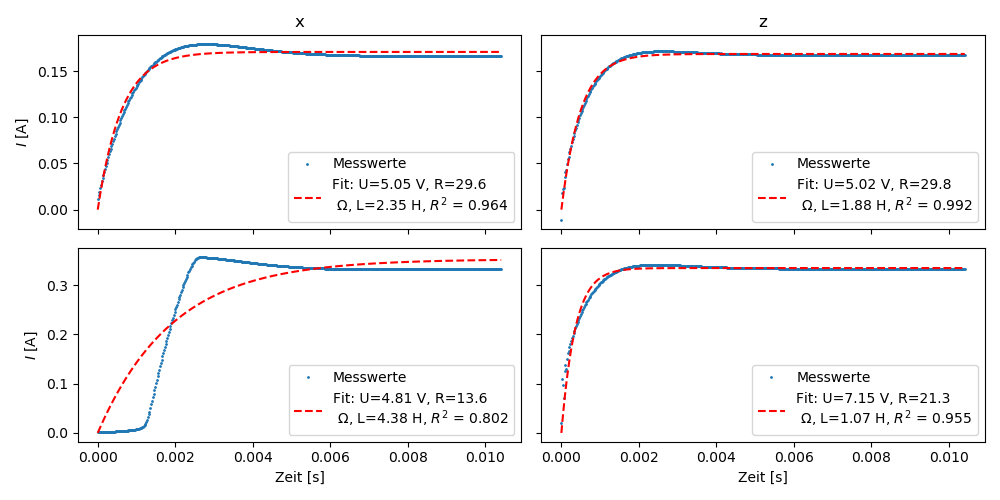
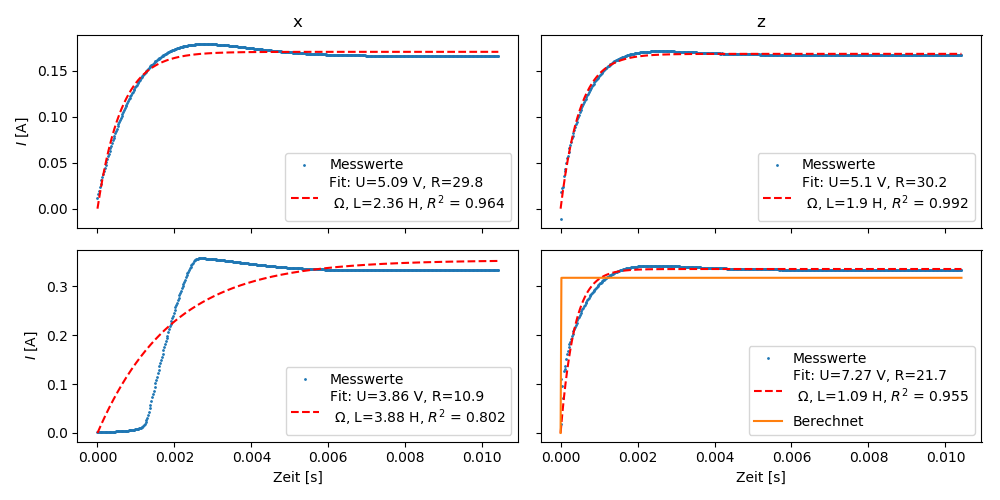
orangene Kurve in Strommessung

diff --git a/ba.tex b/ba.tex
@@ -1,4 +1,4 @@
-% Created 2019-10-18 Fr 14:18
+% Created 2019-10-18 Fr 14:40
 % Intended LaTeX compiler: pdflatex
 \documentclass[page,pdftex,12pt,a4paper,twoside,openright]{scrbook}
 \usepackage[utf8]{inputenc}
@@ -54,7 +54,7 @@
 
 
 \chapter{Einleitung \label{sec-einleitung}}
-\label{sec:org25e32c1}
+\label{sec:org06b1d02}
 Durch den allgemeine Anstieg der Weltbevölkerung, den demographischen Wandel und die steigende Lebenserwartung wird eine Zunahme von Krankheiten wie Krebs oder Diabetes erwartet \cite{bray_global_2018,zhou_worldwide_2016}. Um dieser Entwicklung entgegen zu wirken, werden kostengünstige, patientennahe Diagnoseprozesse für die Individualmedizin entwickelt. So können bereits früh Krankheitsanzeichen und -ursachen entdeckt und bekämpft werden.
 
 Neuartigen Analysesystemen wie \emph{Lab-on-a-Chip} (LOC) werden deswegen großes Potential für Biomedizin und Medizindiagnostik in der Zukunft zugesprochen. Durch Miniaturisierung der Chips ergeben sich viele Vorteile \cite{stone_microfluidics_2001,knight_honey_2002}.
@@ -62,11 +62,11 @@ Möglich sind unter anderem Biochips zur Analyse und Detektion von bestimmten Mo
 
 Das in der Arbeitsgruppe \textsc{Ehresmann} etablierte Transportkonzept von superparamagnetischen Partikeln (SPP) oberhalb magnetisch strukturierter \emph{Exchange-Bias} (EB) Dünnschichtsysteme kann hierbei ein wichtiger Bestandteil zukünftiger Analysesysteme werden. Die Grundidee ist es durch ein extern angelegtes Magnetfeld die magnetische Feldlandschaft (MFL) eines künstlichen Domänenmusters so zu transformieren, dass ein gerichteter Transport der SPP zwischen \emph{head-to-head} und \emph{tail-to-tail}-Domänenwänden möglich wird; dabei können diese SPP in verschiedenen Prozessschritten eines LOCs verwendet werden. Einerseits können Analyte, die an Partikel gebunden sind, in bestimmte Analysebereiche transportiert werden \cite{ehresmann_asymmetric_2011}, andererseits können aber auch Strömungsfelder durch den Partikeltransport erzeugt werden, welche die Analyten und Reagenzien durchmischen und so höhere biochemische Reaktionsraten bewirken \cite{holzinger_controlled_2012}. Ein weiteres Anwendungsgebiet ist die magnetophoretische Auftrennung der Partikel, um so verschiedene Partikelgrößen aufgrund unterschiedlicher magnetophoretischer Mobilitäten voneinander trennen zu können, damit zum Beispiel möglichst homogene Partikeldispersionen für Analysen erreicht werden können \cite{zhou_magnetic_2016}. Für jede dieser Anwendungen werden verschiedene Formen eines externen Magnetfeldes benötigt. Bisher wurden für den Partikeltransport trapezförmige Magnetfeldsequenzen mit konstanten Änderungsraten verwendet. In dieser Arbeit soll der Einfluss der Änderungsrate auf die Transportgeschwindigkeit und Trajektorie der Partikel genauer betrachtet werden, um Optimierungen bezüglich des Partikeltransports für das jeweilige Anwendungsgebiet möglich zu machen.
 \chapter{Theoretische Grundlagen \label{sec-grundlagen}}
-\label{sec:org05167f0}
+\label{sec:org6a9646e}
 In diesem Kapitel soll das theoretische Hintergrundwissen, welches zum Verständnis dieser Arbeit benötigt wird, vermittelt werden. Dazu wird zunächst der Elektromagnetismus eingeführt. Anschließend wird die Verbindung zum Magnetismus in Materie hergestellt. Dann werden die in dieser Arbeit verwendeten \emph{Exchange Bias Systeme} eingeführt und im nächsten Teil wird schließlich der Transport von superparamagnetischen Partikeln über eben jene \emph{Exchange Bias Systeme} beschrieben, wobei die auf sie wirkenden Kräfte genauer betrachtet werden sollen.
 
 \section{Elektromagnetismus \label{sec-elektromagnetismus}}
-\label{sec:orga84997a}
+\label{sec:org0f9cbcd}
 Allgemein gilt, dass bewegte Ladungsträger (Ströme) ein Magnetfeld erzeugen. Fließt zum Beispiel ein Strom \(I\) durch einen langen geraden Draht, erzeugt dies ein kreisförmiges Magnetfeld. Entlang der Stromrichtung ergibt sich eine Rechtsschraube für das Magnetfeld B. Eine Spule besteht aus mehreren Windungen stromdurchflossenen Drahtes und erzeugt so durch Überlagerung ein Magnetfeld ähnlich eines Stabmagneten mit Nord- und Südpol. Die Magnetische Flussdichte \(B\) im Vakuum hängt dabei von Stromstärke \(I\) und Windungsdichte \(n = \frac{N}{L}\) (Windungen pro Länge) ab. Hierbei ist \(\mu_\mathrm{0}\) die magnetische Feldkonstante \cite{demtroder_experimentalphysik_2017}:
 
 \begin{equation}
@@ -75,7 +75,7 @@ B = \mu_{\mathrm{0}} \cdot n \cdot I .
 \end{equation}
 
 \subsection{Helmholtzspulen}
-\label{sec:org12409d3}
+\label{sec:orgfa94d06}
 Für den Partikeltransport wird ein äußeres magnetisches Feld mit Hilfe von Helmholtzspulen erzeugt. Eine Helmholtzspule besteht aus zwei parallelen Ringspulen in Reihe. Diese erzeugen ein homogenes Magnetfeld in ihrem Inneren, wenn die Helmholtz-Bedingung erfüllt ist, d.h. Radius und Abstand der Teilspulen gleich sind. Die Flussdichte dieses Magnetfeldes hängt in Näherung von der Stromstärke \(I\), der Windungszahl pro Spule \(N\) und dem Radius einer einzelnen Spule \(r\) ab \cite{raith_elektromagnetismus_2006}: 
 
 \begin{equation}
@@ -84,7 +84,7 @@ B = \left(\frac{4}{5}\right)^{\frac{3}{2}} \cdot \mu_{\mathrm{0}} \cdot \frac{N 
 \end{equation}
 
 \section{Spulen als elektrische Bauteile \label{sec-spulen}}
-\label{sec:org533111d}
+\label{sec:org23dde6e}
 Beim Anlegen einer Spannung an eine Spule, wird innerhalb dieser eine Gegenspannung induziert. Hierbei ist die induzierte Spannung
 
 \begin{equation}
@@ -137,7 +137,7 @@ Der Abschaltvorgang ist in Abbildung \ref{fig-abschalten} abgebildet.
 \end{figure}
 
 \section{Magnetismus in Materie \label{sec-magnetismus}}
-\label{sec:org9c95896}
+\label{sec:org0d2a8ca}
 Wie bereits in Kapitel \ref{sec-elektromagnetismus} erläutert, erzeugen bewegte Ladungen Magnetfelder. Eine solche bewegte Ladung ist auch das Elektron, das in einer vereinfachten Vorstellung um den Atomkern kreist. Folglich besitzen Atome ein magnetisches Moment \(\mu\), welches abhängig ist von der umkreisten Fläche \(A\) und dem Kreisstrom des Elektrons \(I\) \cite{kassing_bergmann_2005}:
 
 \begin{equation}
@@ -178,7 +178,7 @@ Festkörper können in Folge der mikroskopischen Ursachen bezüglich ihres Magne
 Im Folgenden soll näher auf diese Klassifizierungen eingegangen werden.
 
 \subsection{Dia- und Paramagnetismus \label{sec-dia-und-para}}
-\label{sec:org73c0d82}
+\label{sec:org295e50b}
 Diamagnetismus ist ein magnetischer Effekt in jeglicher Materie, welcher durch induzierte magnetische Momente auftritt. In einem externen Magnetfeld wird im Atom ein magnetisches Moment induziert, welches dem induzierenden Magnetfeld entgegen wirkt (Lenzsche Regel). Ein Festkörper wird als diamagnetisch bezeichnet, wenn ohne äußeres magnetisches Feld keine magnetischen Momente vorliegen. Vor allem abgeschlossene äußere Elektronenschalen tragen zum diamagnetischen Effekt eines Atoms bei. Die Spin- und Bahnmomente der gepaarten Elektronen heben sich in Summe auf. Diamagnetische Materialien haben eine negative Suszeptibilität und werden aus dem externen Magnetfeld heraus gedrängt \cite{gross_festkorperphysik_2012}.
 
 \begin{equation}
@@ -201,7 +201,7 @@ Legt man ein äußeres Magnetfeld an, richten sich die magnetischen Momente nach
 \end{equation}
 
 \subsection{Ferromagnetismus \label{sec-ferro}}
-\label{sec:org5c281a6}
+\label{sec:org79f9ab5}
 Beeinflussen sich die einzelnen magnetischen Momente gegenseitig, sind sie also gekoppelt, kann das System einen magnetisch geordneten Zustand einnehmen. Dieser geordnete Zustand unterliegt jedoch einer Temperaturabhängigkeit. Eine Ursache für das Vorliegen von kollektivem Magnetismus ist die quantenmechanische \textbf{Austausch-Wechselwirkung} \cite{kassing_bergmann_2005}.
 
 Die Suszeptibilität ferromagnetischer Materialien ist um bis zu mehrere Größenordnungen größer als bei paramagnetischen Materialien \cite{demtroder_experimentalphysik_2017}.
@@ -242,16 +242,16 @@ Beim Ausrichten der magnetischen Dipole in einem ferromagnetischen Stoff wird En
 Der Festkörper kann seine ferromagnetischen Eigenschaften verlieren, wenn er über eine bestimmte, für das Material charakteristische, Temperatur \(T_\mathrm{C}\), die \textbf{Curie-Temperatur} erhitzt wird. Die Wärmebewegung zerstört dann die magnetische Ausrichtung der Dipole und der Stoff zeigt nur noch paramagnetisches Verhalten \cite{demtroder_experimentalphysik_2017}.
 
 \subsection{Antiferromagnetismus \label{sec-antiferro}}
-\label{sec:org25bb166}
+\label{sec:orgebbc7b4}
 In einem Antiferromagneten liegen zwei ineinander gestellte Untergitter im Kristallgitter vor. Die magnetischen Momente jener Untergitter zeigen jeweils in entgegengesetzte Richtungen und haben den gleichen Betrag. Somit heben sie sich insgesamt auf und es ist keine makroskopische Magnetisierung sichtbar. Oberhalb der \textbf{Néel-Temperatur} \(T_\mathrm{N}\), dem Analogon zur Curie-Temperatur, geht der Festkörper in den paramagnetischen Zustand über \cite{demtroder_experimentalphysik_2017}. 
 
 \subsection{Superparamagnetismus}
-\label{sec:org609e468}
+\label{sec:org836afd1}
 Ist das Volumen eines ferromagnetischen Festkörpers so gering, dass er nur aus einer einzelnen Domäne besteht, spricht man von Superparamagnetismus. Die Suszeptibilität solcher Superparamagneten ist größer als die Suszeptibilität von Paramagneten, jedoch verhalten sie sich ohne äußeres Magnetfeld ähnlich, da die Magnetisierung in solchen einzelnen Domänen nicht thermisch stabil ist und sich beliebig ausrichten kann \cite{gross_festkorperphysik_2012}.
 Jedoch ist die Zeitskala des Experiments, und ob in dieser thermische Aktivierungs- und Relaxationsprozesse statt finden können, wichtig, um Aussagen über das magnetische Verhalten eines Partikels machen zu können. Bei ausreichend großen Zeitskalen wird über die durch thermische Energie unterschiedlichen magnetischen Momente gemittelt und man erhält insgesamt keine Magnetisierung. Wird jedoch sehr kurz gemessen, kann eine Richtung der Magnetisierung für diesen kurzen Zeitausschnitt bestimmt werden \cite{leslie-pelecky_magnetic_1996}.
 
 \section{Exchange Bias Effekt \label{sec-EB}}
-\label{sec:org635ad9a}
+\label{sec:orga19e01e}
 Der \emph{Exchange Bias} (EB) Effekt  wurde 1956 von \textsc{Meiklejohn} und \textsc{Bean} an oxidierten \ce{Co}-Partikeln entdeckt. Diese Partikel bestehen im Kern aus Cobalt, einem Ferromagneten, und besitzen eine äußere dünne \ce{CoO}-Schicht, welche antiferromagnetisch ist. Die Autoren entdeckten eine Verschiebung der Hysteresekurve um das sogenannte Austauschverschiebungsfeld \(H_\mathrm{EB}\). Diese Beobachtung kann durch den Austauschverschiebungseffekt (engl. \emph{exchange bias}) erklärt werden. Dieser tritt an der Grenzfläche zwischen antiferromagnetischer (AF) und ferromagnetischer (F) Schicht auf, wenn die Partikel innerhalb eines externen Magnetfeldes unter die Néel-Temperatur der antiferromagnetischen Schicht gekühlt wurden. \cite{meiklejohn_new_1957}.
 
 
@@ -285,7 +285,7 @@ Schematische Darstellung der ferromagnetischen Hysteresekurve eines EB-Systems i
 Durch Helium-Ionenbeschuss kann der EB-Effekt eines Schichtsystems verändert werden. So kann zum Beispiel die Richtung des Austauschverschiebungsfeldes lokal umgekehrt werden \cite{mougin_local_2001}. Hierzu kann eine Schattenmaske mittels Lithographie auf die Probe gebracht werden, um anschließend lokal das Eindringen von Ionen zu verhindern. Dies ermöglicht die magnetische Strukturierung von EB-Systemen, zum Beispiel in einer \emph{in-plane} Anisotropie, welche zu \emph{head-to-head} und \emph{tail-to-tail}-Domänenwänden in einer Streifenstruktur führt, womit wiederum Transport von superparamagnetischen Partikeln realisiert werden kann \cite{holzinger_directed_2015}.
 
 \section{Partikeltransport \label{sec-partikeltransport}}
-\label{sec:orgdc3a25a}
+\label{sec:orgef27d5b}
 Superparamagnetische Partikel (SPP) lassen sich durch Verwendung von den zuvor beschriebenen streifenstrukturierten (hh und tt) EB-Systemen in kontrollierten Abständen zum Substrat und in geordneter Reihenform transportieren. Dabei setzt sich das effektive Magnetfeld, das die Partikel erfahren, aus der Magnetfeldlandschaft des Exchange-Bias Systems und dem externen Magnetfeld zusammen \cite{holzinger_directed_2015}:
 
 \begin{equation}
@@ -342,10 +342,10 @@ Schematische Darstellung der wirkenden Kräfte auf ein superparamagnetisches Par
 \end{figure}
 
 \chapter{Experimentelle Methoden \label{sec-methoden}}
-\label{sec:org0e9374d}
+\label{sec:org31aa84c}
 
 \section{Experimenteller Aufbau \label{sec-aufbau}}
-\label{sec:org4690204}
+\label{sec:org7f7d8b2}
 
 Um den Transport von superparamagnetischen Partikeln über das Substrat zu realisieren und zu beobachten, wurde der Versuchsaufbau, der in Abbildung \ref{img-aufbau} zu sehen ist, verwendet.
 
@@ -375,7 +375,7 @@ z & \num{330} & \num{0,030} & \num{11,5} & \num{70} & \num{5,6}\\
 Bei den Versuchen in dieser Arbeit wurden nur zwei der drei Helmholtzspulen verwendet. Dabei handelte es sich um die Spulen für die x- und z-Richtung. Die Partikel wurden in einer mikrofluidischen Zelle auf den Proben platziert, um dann untersucht werden zu können. Hierfür wird Parafilm zuerst in Größe der Probe zurecht geschnitten, und dann ein Rechteck im Inneren des Parafilms ausgeschnitten. So entsteht eine Aussparung in der Mitte, in die circa \SI{10}{\micro\litre} Partikelsuspension gegeben werden. Anschließend wird die Probe auf dem Probentisch platziert, die LED eingeschaltet, und die Kamera mittels Livebild auf die Partikel fokussiert.
 
 \section{Programm zur Erstellung von Magnetfeldsequenzen \label{sec-py}}
-\label{sec:org66c6f60}
+\label{sec:orge71bac0}
 Um die in dieser Arbeit benötigten externen Magnetfelder zu erzeugen, wurde ein neues Programm in Python entwickelt, mit dessen Hilfe verschiedene Wellenformen als Magnetfeld ausgegeben werden können. Hierbei stand ein modularer Ansatz im Vordergrund, weshalb durch einfache Änderungen am Programmcode andere Geräte im Aufbau verwendet werden können. So kann zum Beispiel ein anderes Netzteil verwendet werden, um dann auch drei Helmholtzspulen für Magnetfelder in drei Dimensionen anzusteuern. Ziel war es sowohl sinus- und rechteckförmige Magnetfelder, als auch die für diese Arbeit benötigten trapezförmigen Magnetfelder erzeugen zu können. Dabei ist es möglich jeden Parameter der Wellenform zu ändern, und die Magnetfeldsequenzen als Plot dargestellt zu sehen. Abbildung \ref{fig-prog} zeigt einen Screenshot der graphischen Benutzeroberfläche des Programms.
 
 Mit der in dieser Arbeit entwickelten ersten Version des Programms ist es bisher nur möglich, die Spannungsausgabe des DAQ-Gerätes an das jeweilige verwendete Netzteil zu steuern und anzuzeigen. In Zukunft soll es jedoch möglich sein bereits das entstehende Magnetfeld im Programm auszuwählen und angezeigt zu bekommen. Hierzu wurden zunächst die verwendeten Spulen und das Netzteil charakterisiert (siehe Kapitel \ref{sec-stromundmagnet}).
@@ -388,7 +388,7 @@ Screenshot des entwickelen Programms zur Erstellung von beliebigen Magnetfeldseq
 \end{figure}
 
 \section{Zeitabhängige Messung von Strom und magnetischer Flussdichte \label{sec-stromundmagnet}}
-\label{sec:orgcf01078}
+\label{sec:org7f9276a}
 Um das Verhalten der im Experiment verwendeten Helmholtzspulen nachvollziehen zu können und um die gegebenen technischen Daten und Modelle zu Überprüfen, wurden Messungen des Magnetfeldes und des Stromes an eben jenen Spulen durchgeführt.
 
 Hierfür wurde einerseits der zeitliche Verlauf der Stromstärke in der Spule gemessen, um Induktivität und ohmschen Widerstand zu überprüfen. Es wurde ein Keramikwiderstand in Reihe mit der zu messenden Helmholtzspule angebracht. Über diesem Messwiderstand \(R\) wurde nun die Spannung \(U\) gemessen, indem eine NI USB-6002 Box (im folgenden \emph{DAQ} für \emph{Data Acquisition}) parallel dazu angeschlossen wurde. Dieses DAQ-Gerät besitzt eine maximale Samplerate von \SI{50000}{\per\s} und eine Bittiefe von 16-bit am \emph{Analog Input} (AI). Damit ist dieses Gerät hinreichend geeignet für Erfassung der Messdaten. Mithilfe des Ohmschen Gesetzes lässt sich so der Strom \(I\), der durch den bekannten Messwiderstand \(R\) fließt, berechnen. Da Spule und Messwiderstand in Reihe geschaltet sind, fließt durch beide die selbe Stromstärke.
@@ -405,7 +405,7 @@ Um den zeitlichen Verlauf der magnetischen Flussdichte zu messen, wurde der Mess
 Die Aufzeichnung der Daten des DAQ-Gerätes erfolgte für beide Messungen mittels eines selbst geschriebenen Python-Scriptes (siehe Anhang \ref{anh-messung}).
 
 \chapter{Ergebnisse und Diskussion \label{sec-ergebnisse}}
-\label{sec:org0491e66}
+\label{sec:orgc4aa908}
 Allgemein kann die Auswertung in zwei Teile unterteilt werden.
 Zu Beginn der Auswertung wird in Kapitel \ref{sec-b_helmholtz} auf Messungen von Stromstärke und magnetischer Flussdichte an den im Experiment verwendeten Helmholtzspulen eingegangen. Diese Messungen werden zum einen benötigt um das Programm zur Erstellung von Magnetfeldsequenzen zukünftig sinnvoll weiter entwickeln zu können. Weiterhin ist die Kentniss über den realen zeitlichen Verlauf der angelegten Magnetfeldsequenzen wichtig, um die Simulationen und Vorhersagen aus dem theoretischen Modell zum Partikeltransport einordnen, diskutieren und möglicherweise optimieren zu können. Es wurden sowohl statische Messungen der Amplitude der magnetischen Flussdichte als auch der zeitliche Verlauf der magnetischen Flussdichte in Abhängigkeit der Stromstärke durchgeführt.
 
@@ -419,7 +419,7 @@ Zusammensetzung der verwendeten Schichtsysteme. Die obere Siliziumschicht wurde 
 \end{figure}
 
 \section{Stromstärke und magnetische Flussdichte der Helmholtzspulen \label{sec-b_helmholtz}}
-\label{sec:orgeaa2329}
+\label{sec:org9960c18}
 Um die verwendeten Helmholtzspulen näher charakterisieren zu können, wurde zunächst der Zusammenhang zwischen der am Netzteil angelegten Spannung und der die Spulen durchfließenden Stromstärke sowie der daraus resultierenden magnetischen Flussdichte bestimmt.
 
 Zuerst wurde der Zusammenhang zwischen den Amplituden der Stromstärke \(I\) und magnetischen Flussdichte \(B\) gemessen. Dabei wurde die Stromstärke an einem in Reihe geschalteten Multimeter abgelesen, die magnetischen Flussdichte an einem Teslameter der Firma \emph{Projekt Elektronik GmbH}, dessen Messkopf sich in der Probenhalterung der Helmholtzspulen zur Messung des Magnetfeldes in z-Richtung befand. Die Messwerte sind in Tabelle \ref{tab-B} im Anhang dargestellt. Der Zusammenhang von Stromstärke und magnetischer Flussdichte sollte gemäß Gleichung \ref{eq-spule} linear sein, weshalb die Messwerte in Abbildung \ref{fig-magnetfeldstrom} durch eine lineare Regression angenähert wurden.
@@ -486,10 +486,12 @@ Anschließend wurden die Messwerte durch eine Fitfunktion basierend auf Gleichun
 \centering
 \includegraphics[width=\textwidth]{img/strom_fit.png}
 \caption{\label{fig-stromfit}
-Einschaltzeitpunkt der gemittelten Periode der Stromstärke. \mbox{Fitfunktion (rot) und -parameter} zu Gleichung \ref{eq-strom-spule} an die gemessenen Stromstärken (blau).}
+Einschaltzeitpunkt der gemittelten Periode der Stromstärke. \mbox{Fitfunktion (rot) und -parameter} zu Gleichung \ref{eq-strom-spule} an die gemessenen Stromstärken (blau). Zum Vergleich wurde im unteren rechten Graphen der berechnete Verlauf der Stromstärke mit gemessenen Werten für Widerstand \(R = \SI{11.5}{\ohm}\) und Induktivität \(L = \SI{0.0056}{\henry}\) in orange dargestellt.}
 \end{figure}
 
-In den Graphen ist zu erkennen, dass der Kurvenverlauf der Stromstärke beim Einschalten prinzipiell dem theoretisch vorhergesagten Einschaltverhalten aus Gleichung \ref{eq-strom-spule} entspricht. Dennoch sind keine ausreichend genauen Parameter für die Fitfunktion gefunden worden. Vor allem zu Beginn der Messung weicht das reale Einschaltverhalten vom erwarteten Einschaltverhalten ab, da das Netzteil aufgrund der Stromregelung keine konstante Spannung ab Zeitpunkt des Einschaltens ausgibt, sondern diese regelt, um einen konstanten Strom zu erzielen. Hinzu kommt, dass Gleichung \ref{eq-strom-spule} nur einen konstanten ohmschen Widerstand voraus setzt. Jedoch werden durch die hohe Änderungsrate des Stromes große Gegenströme induziert, welche als Blindwiderstand wirken. Deswegen kann Gleichung \ref{eq-strom-spule} nur näherungsweise hinzugezogen werden, und es ist nicht möglich die reellen Vorgänge damit zu beschreiben. Durch diese beiden Effekte müssten komplexere Modelle hinzugezogen werden, um den genauen Verlauf der Stromstärke vorhersagen zu können. Des Weiteren ist unbekannt wie das Netzteil aufgebaut ist, welche elektrischen Bauteile darin verwendet werden, und so eventuell zu der Induktivität des Aufbaus beitragen. Das Netzteil allein gibt bereits ohne zusätzliche Spulen keine sofortige maximale Spannung aus. Dies wurde überprüft, indem das Netzteil nur an einen \(\SI{12.5}{\ohm}\) Widerstand angeschlossen wurde und die darüber abfallende Spannung ohne Helmholtzspule gemessen wurde. Der Einschaltvorgang dieser Messung ist dargestellt in Abbildung \ref{fig-12ohm}. Wegen des ohmschen Gesetzes ist die Stromstärke proportional zum am Widerstand gemessenen Spannungsabfall und zeigt die selbe Form. Außerdem wird deutlich, dass die Auflösung des DAQ-Gerätes anscheinend zu gering ist, um die schnellen Änderungen während des Einschaltens genau darstellen zu können.
+In den Graphen ist zu erkennen, dass der Kurvenverlauf der Stromstärke beim Einschalten prinzipiell dem theoretisch vorhergesagten Einschaltverhalten aus Gleichung \ref{eq-strom-spule} entspricht. Dennoch sind keine ausreichend genauen Parameter für die Fitfunktion gefunden worden. Vor allem zu Beginn der Messung weicht das reale Einschaltverhalten vom erwarteten Einschaltverhalten ab, da das Netzteil aufgrund der Stromregelung keine konstante Spannung ab Zeitpunkt des Einschaltens ausgibt, sondern diese regelt, um einen konstanten Strom zu erzielen. Hinzu kommt, dass Gleichung \ref{eq-strom-spule} nur einen konstanten ohmschen Widerstand voraus setzt. Jedoch werden durch die hohe Änderungsrate des Stromes große Gegenströme induziert, welche als Blindwiderstand wirken. Deswegen kann Gleichung \ref{eq-strom-spule} nur näherungsweise hinzugezogen werden, und es ist nicht möglich die reellen Vorgänge damit zu beschreiben. Durch diese beiden Effekte müssten komplexere Modelle hinzugezogen werden, um den genauen Verlauf der Stromstärke vorhersagen zu können. 
+Des Weiteren ist unbekannt wie das Netzteil aufgebaut ist, welche elektrischen Bauteile darin verwendet werden, und so eventuell zu der Induktivität des Aufbaus beitragen. Das Netzteil allein gibt bereits ohne zusätzliche Spulen keine sofortige maximale Spannung aus. Dies wurde überprüft, indem das Netzteil nur an einen \(\SI{12.5}{\ohm}\) Widerstand angeschlossen wurde und die darüber abfallende Spannung ohne Helmholtzspule gemessen wurde. Der Einschaltvorgang dieser Messung ist dargestellt in Abbildung \ref{fig-12ohm}. Wegen des ohmschen Gesetzes ist die Stromstärke proportional zum am Widerstand gemessenen Spannungsabfall und zeigt die selbe Form. Außerdem wird deutlich, dass die Auflösung des DAQ-Gerätes anscheinend zu gering ist, um die schnellen Änderungen während des Einschaltens genau darstellen zu können.
+Dies wird auch verdeutlicht durch die exemplarisch gezeigte orangene Kurve in Abbildung \ref{fig-stromfit}. Diese beschreibt das Einschaltverhalten mithilfe des im Voraus gemessenen Widerstands und Induktivität. Dies ist somit die eigentlich während der Messung erwartete Kurve, wenn das Netzteil einen idealen Stromverlauf ausgeben könnte und Gleichung \ref{eq-strom-spule} diesen korrekt abbilden könnte.
 
 \begin{figure}[h]
 \centering
@@ -531,7 +533,7 @@ Zeitlicher Verlauf der magnetischen Flussdichte der z-Spule der gemittelten Peri
 \end{figure}
 
 \section{Partikeltransport \label{sec-partikelgeschwindigkeiten}}
-\label{sec:orgdaa99f3}
+\label{sec:orgf40dff9}
 Um aus den aufgenommen Videos aus dem Partikeltransportexperiment die Trajektorien und Partikelgeschwindigkeiten zu erhalten, wird das Programm \emph{VideoSpotTracker} verwendet. Hierzu wurden möglichst alle sich bewegenden Partikel als \emph{"`dark spot"'} mit der Größe 3 ausgewählt, und dann mittels \emph{"`follow jumps"'} die x- und z-Positionen der einzelnen Partikel in Pixel verfolgt und in einer csv-Datei aufgezeichnet (siehe Abbildung \ref{fig-videospottracker}). Da die Größe eines Pixels (\SI{278}{\nano\meter}) sowie die Framerate (1000 FPS) und somit die Zeit bekannt sind, lässt sich so die Durchschnittsgeschwindigkeit der Partikel berechnen. Bewegungen in y-Richtung sind unter anderem durch ein nicht genau orthogonal zur Streifenstruktur anliegendes Magnetfeld der x-Spule zu erklären.
 
 \begin{figure}[h]
@@ -590,15 +592,15 @@ Betrag der Magnetfeldvektoren. Die angelegten Magnetfeldsequenzen sind in grün 
 \end{figure}
 
 \chapter{Zusammenfassung und Ausblick \label{sec-zusammenfassung}}
-\label{sec:org6a77a06}
+\label{sec:org9d2b45b}
 Ziel dieser Arbeit war es, den Einfluss der Änderungsrate der externen Magnetfelder auf den Partikeltransport zu untersuchen. Um dies zu erreichen, waren zuvor einige zusätzliche Untersuchungen von Nöten. Zunächst wurden die im Experiment verwendeten Helmholtzspulen charakterisiert, und überprüft ob das real erzeugte Magnetfeld der Spulen mittels Gleichungen vorhergesagt werden kann. Es konnte gezeigt werden, dass zwar die endgültige magnetische Flussdichte korrekt berechnet werden kann, der Einschaltvorgang der Spulen kann jedoch aufgrund von komplexeren Vorgängen und verwendeten Geräten nicht mathematisch beschrieben werden. Dies wirkt sich auch auf die Simulationen aus, welche durchgeführt werden, um die Partikelgeschwindigkeiten und -trajektorien bereits im Voraus zu berechnen. Diese Simulationen verwenden idealisierte Magnetfeldsequenzen und EB-Systeme. Trotzdem ist es durchaus möglich die Trajektorien der Partikel zu berechnen, und so schon im Voraus die Notwendigkeit der Herstellung bestimmter EB-Schichtsysteme zu prüfen.
 
 Auch wenn es nur ein kleiner Teil dieser Arbeit war, wird durch die Entwicklung des neuen Programms zur Erstellung der Magnetfeldsequenzen in Zukunft einfacher sein, verschiedene Magnetfeldsequenzen und deren Auswirkung auf den Partikeltransport zu Untersuchen. Es ist zum Beispiel möglich verschiedene Frequenzmodulationen zu erstellen, und deren Auswirkungen zu untersuchen.
 Ein weiterer Vorteil ist, dass es voraussichtlich möglich ist, die Aufnahme der Kamera mit eben jenem Programm zur Ausgabe der Magnetfeldsequenzen bereits zu starten. Somit sind Video und Magnetfeldsequenz bereits synchronisiert, und mit einem Mausklick können Magnetfeldsequenzen und Aufnahme gleichzeitig gestartet werden. Hier gab es jedoch aufgrund von veralteter Hardware noch Probleme mit der Implementierung.
 \chapter{Anhang}
-\label{sec:orgf3a1785}
+\label{sec:orgac7d2e8}
 \section{Messwerte}
-\label{sec:org934dd55}
+\label{sec:org8dfefa7}
 \begin{table}[htbp]
 \caption{\label{tab-B}
 Zusammenhang zwischen magnetischer Flussdichte und Stromstärke. Hierbei wurde die Spannung an dem DAQ-Gerät \(U_\mathrm{B}\) erhöht und dazugehörige Stromstärke am Netzteilausgang \(I\) und magnetische Flussdichte im inneren der z-Spule \(B_\mathrm{z}\) gemessen.}
@@ -630,7 +632,7 @@ U\textsubscript{DAQ}~[\si{\volt}] & I~[\si{\ampere}] & B\textsubscript{z}~[\si{\
 \end{table}
 
 \section{Python-Script zur Messung von Stromstärke und magnetischer Flussdichte: \label{anh-messung}}
-\label{sec:org6303998}
+\label{sec:org02821be}
 \begin{minted}[]{python}
 """ Measure magnetic fieldstrength with NI USB-6002 """
 import numpy as np
@@ -675,14 +677,14 @@ if __name__ == "__main__":
     plt.show()
 \end{minted}
 \section*{}
-\label{sec:org2bf8098}
+\label{sec:org528a9d8}
 \printbibliography
 
 \chapter*{Danksagung}
-\label{sec:orgdbfc674}
+\label{sec:org2d1051d}
 Danke.
 
 \chapter*{Eigenständigkeitserklärung}
-\label{sec:orga585351}
+\label{sec:orgb724c13}
 Hiermit bestätige ich, dass ich die vorliegende Arbeit selbständig verfasst und keine anderen als die angegebenen Hilfsmittel benutzt habe. Die Stellen der Arbeit, die dem Wortlaut oder dem Sinn nach anderen Werken (dazu zählen auch Internetquellen) entnommen sind, wurden unter Angabe der Quelle kenntlich gemacht. \\
 \end{document}
